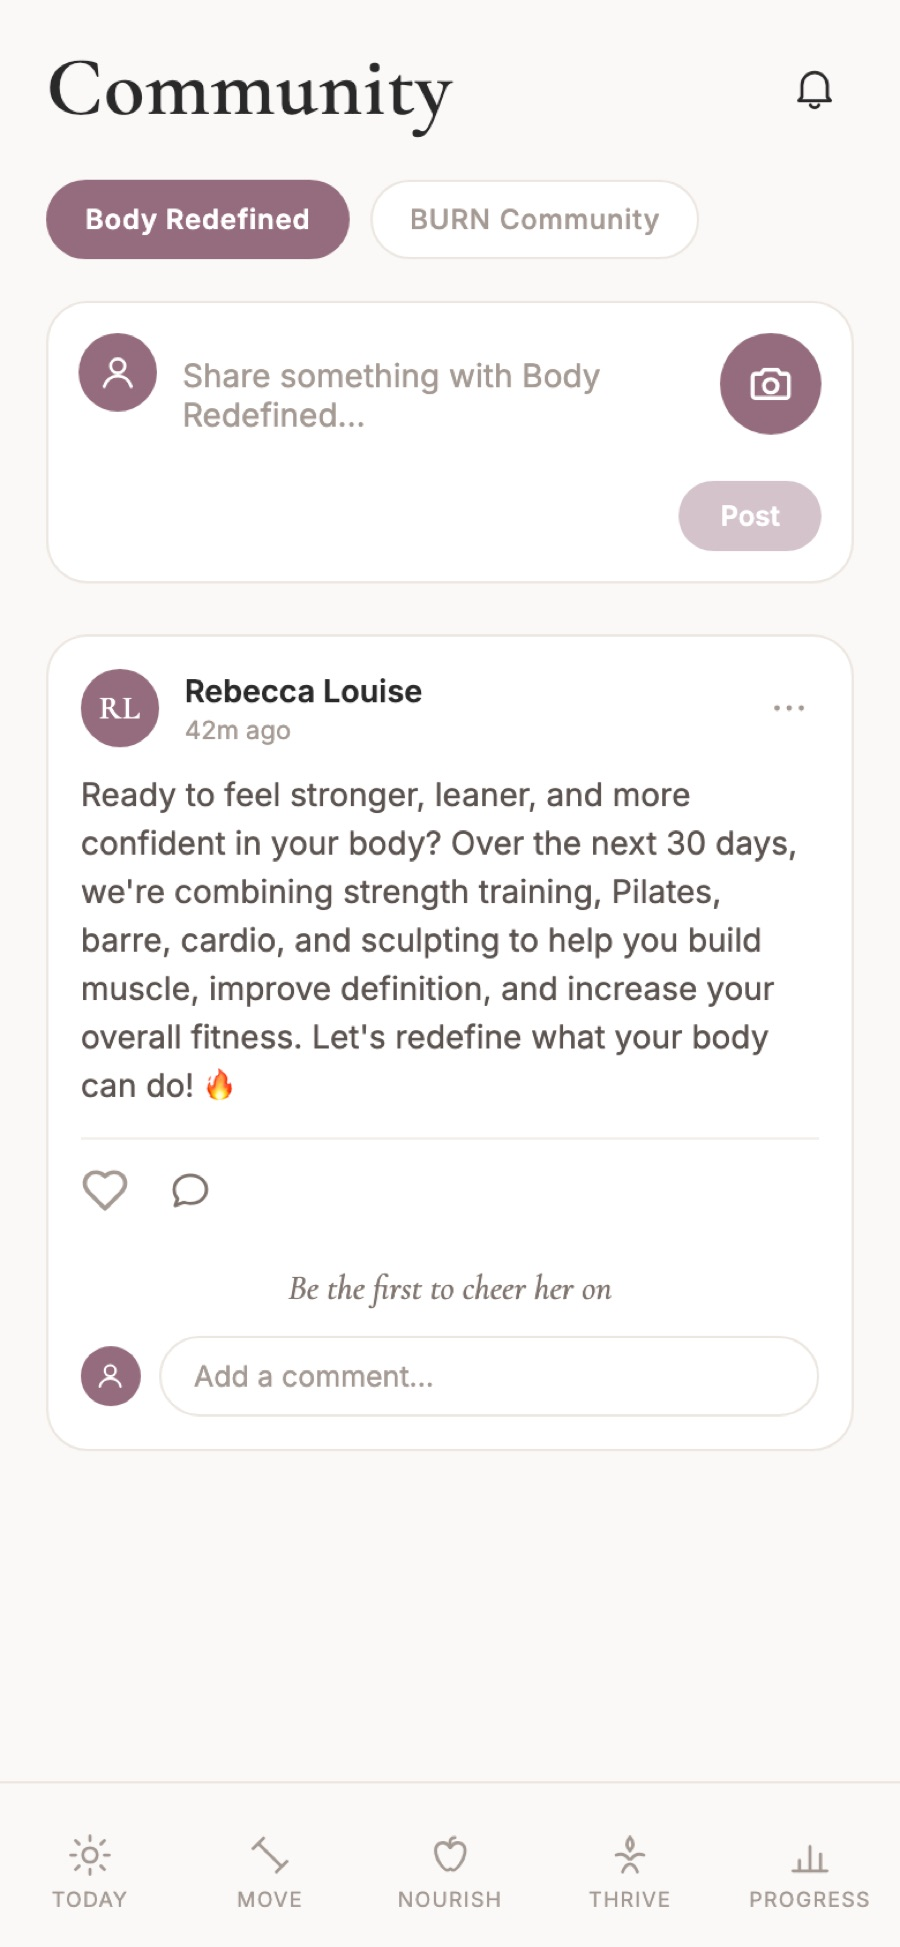
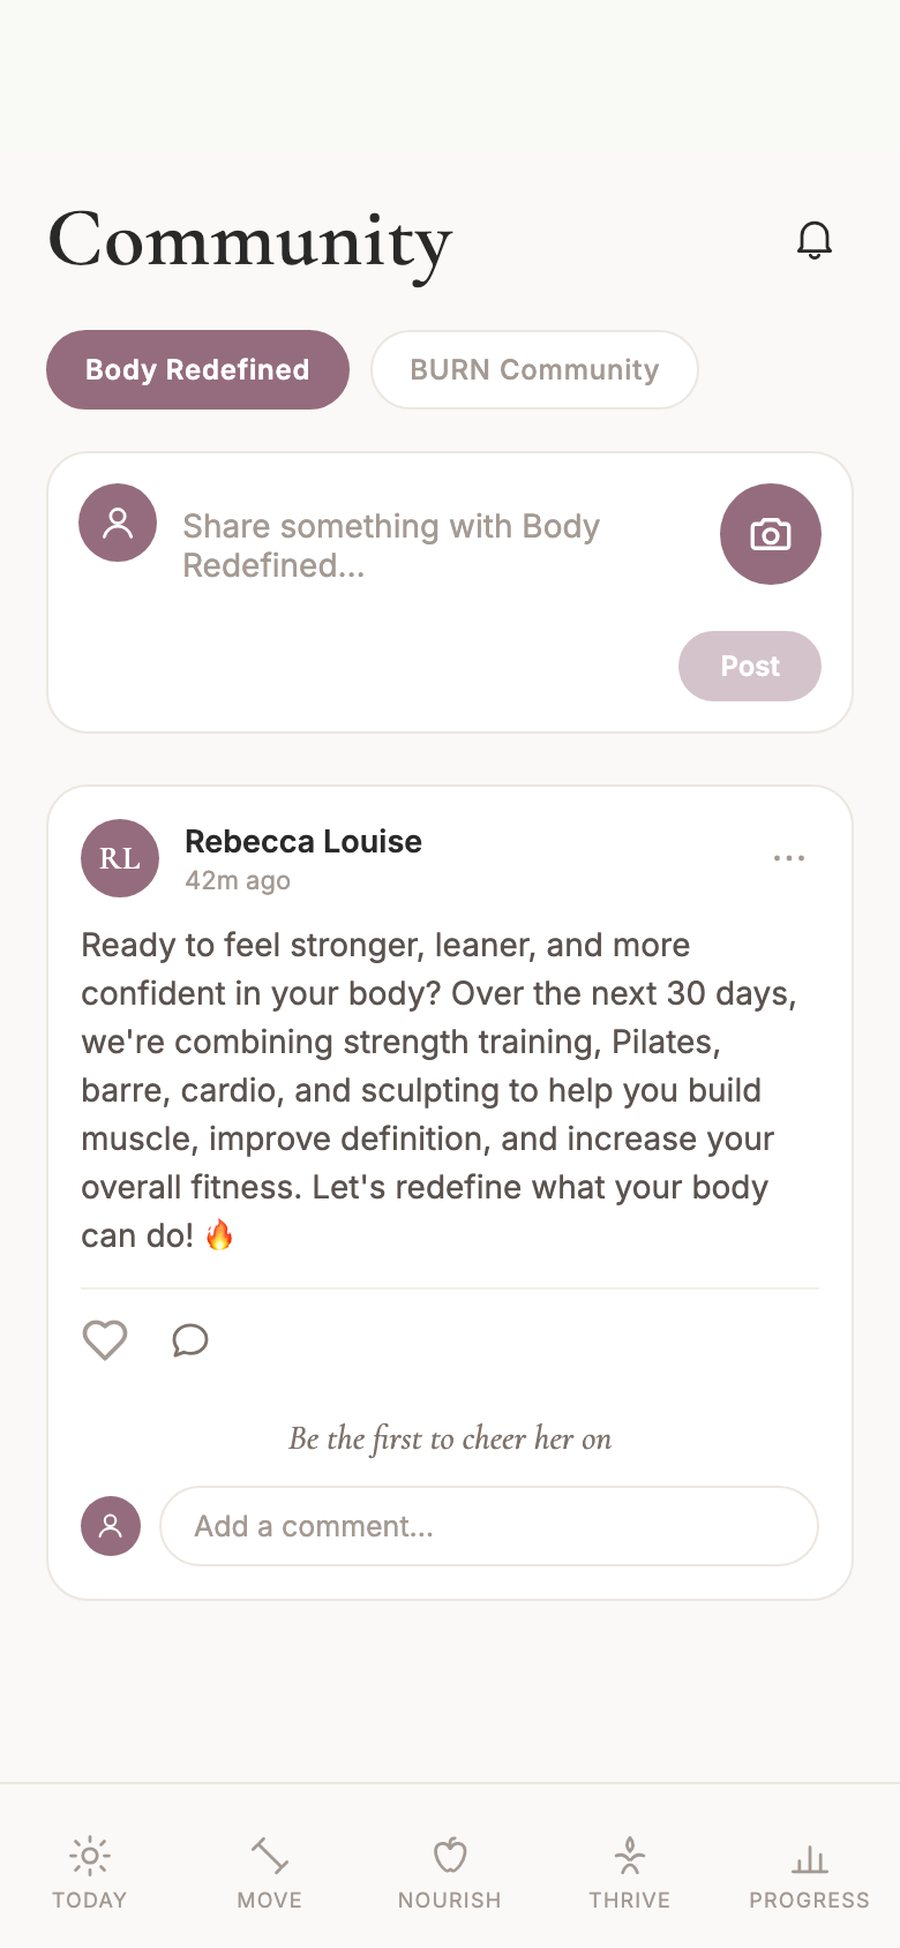
Round 2: chat screen sits below the status bar

diff --git a/v6/index.html b/v6/index.html
@@ -152,7 +152,7 @@
     <div class="chall" id="challenges">
       <div><div class="kick">Monthly challenges</div><h3>A new challenge every month</h3><p class="lede" style="font-size:16px;margin-bottom:20px">Every month, I&rsquo;ll bring you a new challenge with workouts planned out for you, a calendar to track your progress and a community doing it alongside you. Jump in at any time, work at your own pace and see what you can achieve.</p>
         </div>
-      <div class="chall-phones"><figure class="cphone"><div class="device"><div class="iphone"><span class="hw l1"></span><span class="hw l2"></span><span class="hw l3"></span><span class="hw r1"></span><img loading="lazy" src="img/app/calendar.jpg" alt="BURN app challenge calendar with completed days ticked" width="900" height="1957"></div></div><figcaption>Your month</figcaption></figure><figure class="cphone"><div class="device"><div class="iphone"><span class="hw l1"></span><span class="hw l2"></span><span class="hw l3"></span><span class="hw r1"></span><img loading="lazy" src="img/app/challenge.jpg" alt="BURN app challenge details screen" width="900" height="1957"></div></div><figcaption>What&rsquo;s inside</figcaption></figure><figure class="cphone"><div class="device"><div class="iphone"><span class="hw l1"></span><span class="hw l2"></span><span class="hw l3"></span><span class="hw r1"></span><img loading="lazy" src="img/app/chat.jpg" alt="BURN app challenge chat with a post from Rebecca" width="900" height="1947"></div></div><figcaption data-new-copy="NEW (was: Your guide)">Challenge chat</figcaption></figure></div>
+      <div class="chall-phones"><figure class="cphone"><div class="device"><div class="iphone"><span class="hw l1"></span><span class="hw l2"></span><span class="hw l3"></span><span class="hw r1"></span><img loading="lazy" src="img/app/calendar.jpg" alt="BURN app challenge calendar with completed days ticked" width="900" height="1957"></div></div><figcaption>Your month</figcaption></figure><figure class="cphone"><div class="device"><div class="iphone"><span class="hw l1"></span><span class="hw l2"></span><span class="hw l3"></span><span class="hw r1"></span><img loading="lazy" src="img/app/challenge.jpg" alt="BURN app challenge details screen" width="900" height="1957"></div></div><figcaption>What&rsquo;s inside</figcaption></figure><figure class="cphone"><div class="device"><div class="iphone"><span class="hw l1"></span><span class="hw l2"></span><span class="hw l3"></span><span class="hw r1"></span><img loading="lazy" src="img/app/chat.jpg?v=2" alt="BURN app challenge chat with a post from Rebecca" width="900" height="1948"></div></div><figcaption data-new-copy="NEW (was: Your guide)">Challenge chat</figcaption></figure></div>
     </div>
   </div>
 </section>
